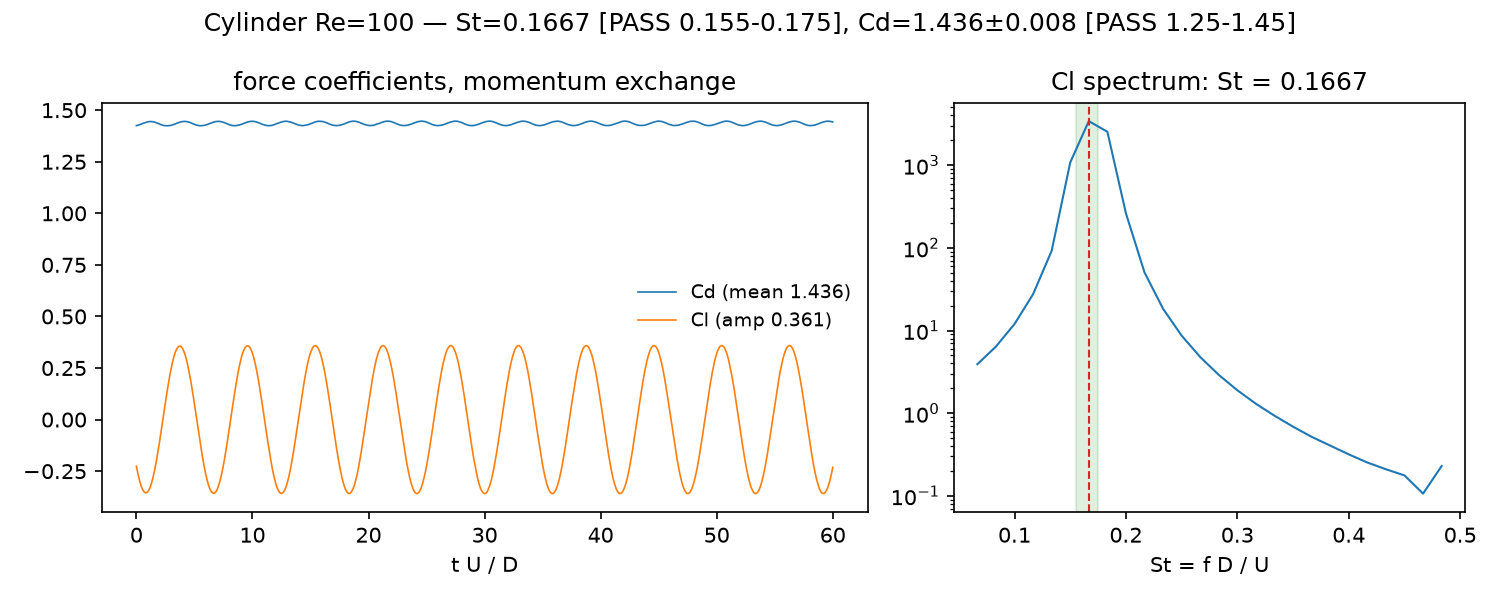
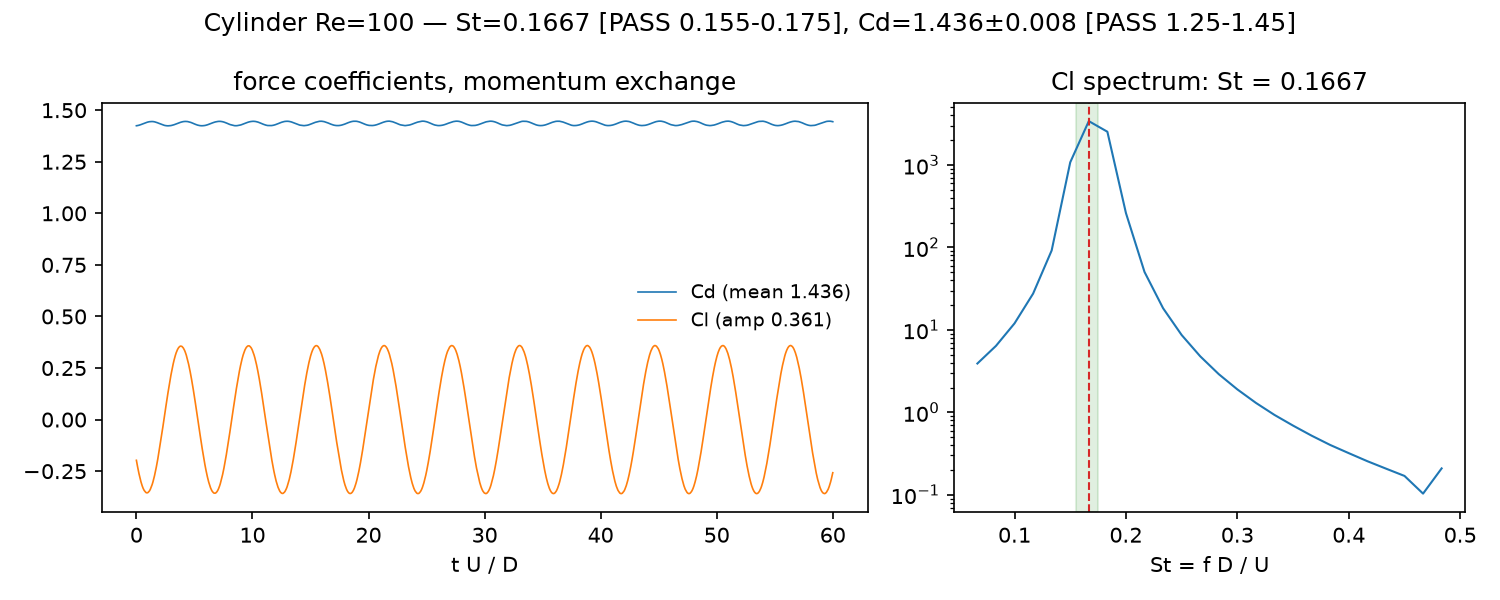
Regularized open boundaries (Latt & Chopard 2008): fixes Re=10k blowup
Zou-He alone leaves a staggered non-hydrodynamic mode in the boundary
populations; undamped at nu=6e-4 it grew from seed noise to blowup in
200 steps at the INLET column (autopsy in NOTES from the auto-captured
failure state). Both solvers now rebuild boundary columns as
feq + w(9/2) Q:Pi_neq. Re-verified: 60 tests, empty tunnel to 4
decimals, fused equivalence 1.5e-5, cylinder gate unchanged to 4 digits
(St 0.1667, Cd 1.4357). Re=10k now tracks the ramp smoothly.

diff --git a/lbm/fused.py b/lbm/fused.py
@@ -143,6 +143,43 @@ def _step_kernel(
     f6 = tl.where(is_out, f5 + t_imb - (1.0 / 6.0) * u_out, f6)
     f8 = tl.where(is_out, f7 - t_imb - (1.0 / 6.0) * u_out, f8)
 
+    # Regularize the boundary columns (Latt & Chopard 2008): keep only
+    # the hydrodynamic part of f_neq — Zou-He alone carries a staggered
+    # mode that is undamped at low viscosity (blew up Re=10k in 200
+    # steps; NOTES 2026-07-14). b-lane target: (rho_b, u_b, v=0).
+    b_lane = is_in | is_out
+    rho_b = tl.where(is_in, rho_in, 1.0)
+    ux_b = tl.where(is_in, u_in, u_out)
+    cub = 3.0 * ux_b
+    ub2 = 1.5 * ux_b * ux_b
+    fb0 = W0 * rho_b * (1.0 - ub2)
+    fb1 = WA * rho_b * (1.0 + cub + 0.5 * cub * cub - ub2)
+    fb2 = WA * rho_b * (1.0 - cub + 0.5 * cub * cub - ub2)
+    fb34 = WA * rho_b * (1.0 - ub2)
+    fb57 = WD * rho_b * (1.0 + cub + 0.5 * cub * cub - ub2)
+    fb68 = WD * rho_b * (1.0 - cub + 0.5 * cub * cub - ub2)
+    pxx = (f1 - fb1) + (f2 - fb2) + (f5 - fb57) + (f6 - fb68) \
+        + (f7 - fb57) + (f8 - fb68)
+    pyy = (f3 - fb34) + (f4 - fb34) + (f5 - fb57) + (f6 - fb68) \
+        + (f7 - fb57) + (f8 - fb68)
+    pxy = (f5 - fb57) + (f6 - fb68) - (f7 - fb57) - (f8 - fb68)
+    third = 1.0 / 3.0
+    f0 = tl.where(b_lane, fb0 + W0 * 4.5 * (-third * pxx - third * pyy), f0)
+    f1 = tl.where(b_lane, fb1 + WA * 4.5 * (2.0 * third * pxx
+                                            - third * pyy), f1)
+    f2 = tl.where(b_lane, fb2 + WA * 4.5 * (2.0 * third * pxx
+                                            - third * pyy), f2)
+    f3 = tl.where(b_lane, fb34 + WA * 4.5 * (-third * pxx
+                                             + 2.0 * third * pyy), f3)
+    f4 = tl.where(b_lane, fb34 + WA * 4.5 * (-third * pxx
+                                             + 2.0 * third * pyy), f4)
+    qp_pos = 2.0 * third * (pxx + pyy) + 2.0 * pxy   # e_x e_y = +1 diag
+    qp_neg = 2.0 * third * (pxx + pyy) - 2.0 * pxy   # e_x e_y = -1 diag
+    f5 = tl.where(b_lane, fb57 + WD * 4.5 * qp_pos, f5)
+    f6 = tl.where(b_lane, fb68 + WD * 4.5 * qp_pos, f6)
+    f7 = tl.where(b_lane, fb57 + WD * 4.5 * qp_neg, f7)
+    f8 = tl.where(b_lane, fb68 + WD * 4.5 * qp_neg, f8)
+
     # -- macroscopics (Guo half-force shift) ------------------------------
     rho = f0 + f1 + f2 + f3 + f4 + f5 + f6 + f7 + f8
     rho_safe = tl.where(rho > 1e-12, rho, 1.0)

diff --git a/lbm/solver.py b/lbm/solver.py
@@ -380,9 +380,43 @@ class Solver:
             f2[6, -1, :] = c[5] + t - (1.0 / 6.0) * u_out
             f2[8, -1, :] = c[7] - t - (1.0 / 6.0) * u_out
 
+            # Regularize both boundary columns (Latt & Chopard 2008):
+            # rebuild f = feq(rho_b, u_b) + w_q (9/2) Q_q : Pi_neq, i.e.
+            # keep only the hydrodynamic part of the non-equilibrium.
+            # Zou-He alone leaves a staggered mode that BGK cannot damp
+            # at low viscosity — at Re = 10k (tau = 0.5018) it grew from
+            # seed noise to blowup in 200 steps (NOTES 2026-07-14).
+            u_in_col = torch.full_like(rho_in, u_in)
+            zeros = torch.zeros_like(rho_in)
+            self._regularize_column(f2[:, 0, :], rho_in, u_in_col, zeros)
+            ones = torch.ones_like(u_out)
+            self._regularize_column(f2[:, -1, :], ones, u_out, zeros)
+
         # swap A/B buffers
         self.f, self.f2 = f2, f
         self.step_count += 1
+
+    @staticmethod
+    def _regularize_column(col: torch.Tensor, rho: torch.Tensor,
+                           ux: torch.Tensor, uy: torch.Tensor) -> None:
+        """In-place regularized reconstruction of one boundary column
+        (9, ny): f_q = f_q^eq(rho, u) + w_q (9/2) Q_qab Pi^neq_ab, with
+        Q_qab = e_qa e_qb - delta_ab / 3 (Latt & Chopard 2008)."""
+        usq = ux * ux + uy * uy
+        feq = torch.empty_like(col)
+        for q in range(Q):
+            ex, ey = E[q]
+            cu = 3.0 * (ex * ux + ey * uy)
+            feq[q] = W[q] * rho * (1.0 + cu + 0.5 * cu * cu - 1.5 * usq)
+        fneq = col - feq
+        pxx = fneq[1] + fneq[2] + fneq[5] + fneq[6] + fneq[7] + fneq[8]
+        pyy = fneq[3] + fneq[4] + fneq[5] + fneq[6] + fneq[7] + fneq[8]
+        pxy = fneq[5] + fneq[6] - fneq[7] - fneq[8]
+        for q in range(Q):
+            ex, ey = E[q]
+            qpi = ((ex * ex - 1.0 / 3.0) * pxx + (ey * ey - 1.0 / 3.0) * pyy
+                   + 2.0 * ex * ey * pxy)
+            col[q] = feq[q] + W[q] * 4.5 * qpi
 
     # ------------------------------------------------------------------
     def guards(self) -> dict:

diff --git a/notes/NOTES.md b/notes/NOTES.md
@@ -353,3 +353,40 @@ Phase 5 inherits it ready-made.
 overhead hunt as a whiteboard beat; the reference-vs-fused MLUPS
 overlay clips (out/clip_overlay_ref, out/clip_overlay_fused).
 
+---
+
+## 2026-07-14 — Phase 5, first blood: Zou-He eats itself at Re = 10k
+
+The very first turbulence run (cylinder Re = 10,000, tau = 0.5018) died
+at **step 200** — runaway velocity 0.488 while the ramped inlet was
+still at 0.024. The failure-capture path did its job: checkpoint, seed,
+and metadata landed in failures/20260714-001740/ before the halt.
+
+Autopsy from the captured state:
+- The runaway cell is at **x = 1** — the column NEXT TO THE INLET, 480
+  cells upstream of the cylinder. Innocent bystander physics.
+- The velocity along that column alternates cell-to-cell (0.32, 0.16,
+  0.50, 0.29, 0.15, 0.52...) — a staggered, grid-scale mode.
+- Reference and fused solvers reproduce the blowup IDENTICALLY
+  (u_max trajectories match to three digits) — not a kernel bug, a
+  boundary-condition property.
+
+Diagnosis: the known low-viscosity fragility of Zou-He. The
+reconstruction satisfies mass and momentum at the wall but leaves a
+non-hydrodynamic (staggered) component in the boundary populations.
+BGK damps that mode at a rate ~ set by the viscosity: at Re = 100
+(nu = 0.024) it dies instantly; at Re = 10k (nu = 6e-4, omega = 1.993)
+it is essentially undamped, feeds back through the reconstruction each
+step, and grows from the 1e-4 seed noise to blowup in 200 steps.
+
+Fix: **regularized boundary conditions** (Latt & Chopard 2008) — keep
+the Zou-He mass/momentum solve, then rebuild the whole boundary column
+as f = feq(rho_b, u_b) + w_q (9/2) Q_q : Pi_neq, projecting the
+non-equilibrium onto its hydrodynamic part and filtering everything
+else. Implemented in both solvers (in-register in the kernel).
+Verified: Re = 10k now tracks the ramp smoothly to u_max ~ 2.1 u_in
+(the starting vortex) with tau_eff engaged; the empty-tunnel regression
+still holds to four decimals; fused-vs-reference equivalence and the
+cylinder gate re-run follow (open-boundary changes always re-gate —
+that is the rule this project bought on day one).
+